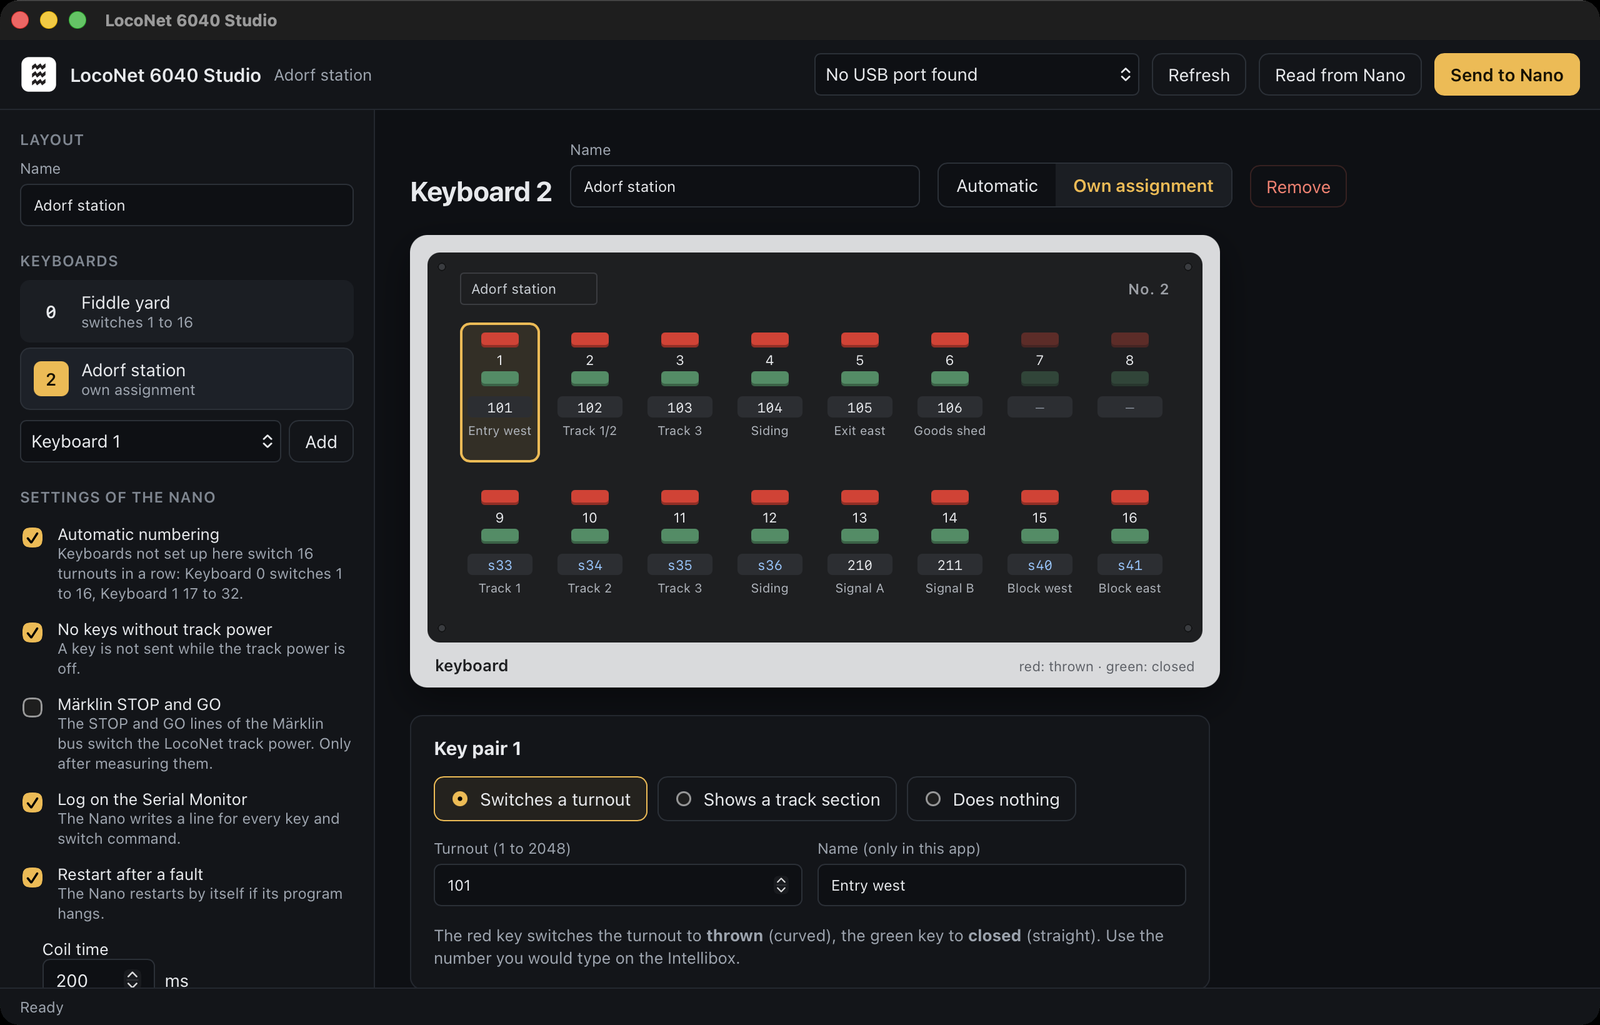
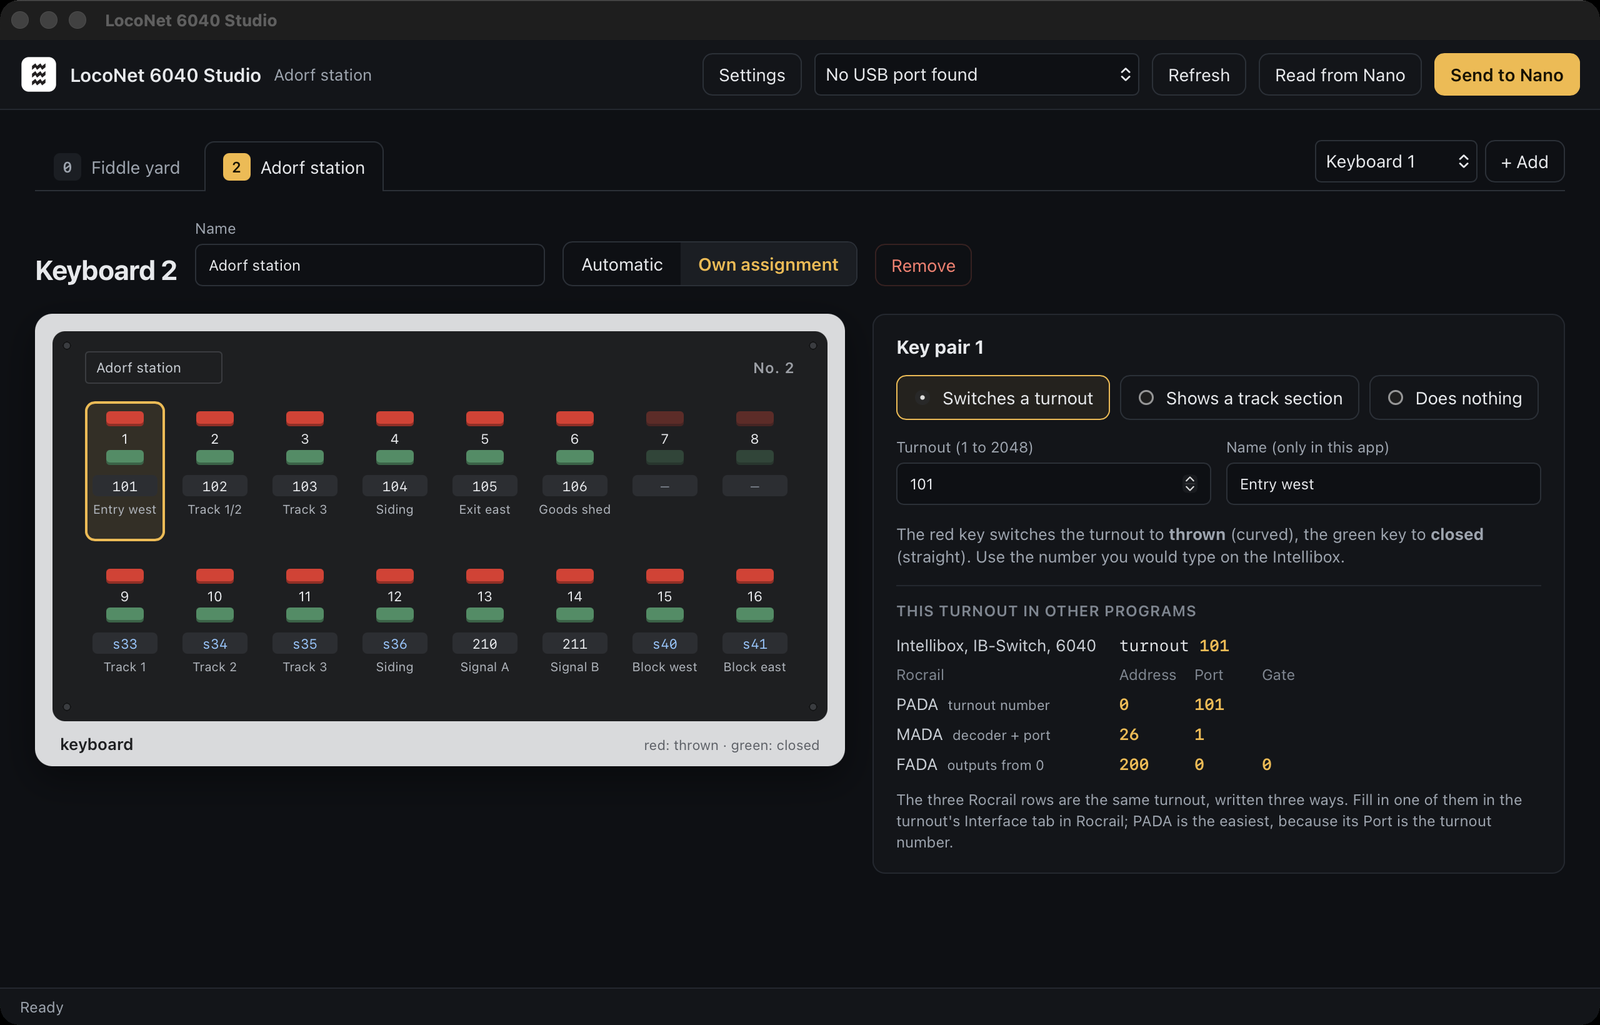
Keyboards as tabs, Rocrail MADA/PADA/FADA per turnout, Settings window
- Keyboards are tabs above the Keyboard picture, with + Add for the next
  free number, instead of a list on the left
- For a turnout, the key pair panel shows it as the Intellibox numbers it
  and as Rocrail's PADA, MADA and FADA, in Rocrail's Address, Port and
  Gate fields. The formulas are Rocrail's own (rocutils addr.c and the
  LocoNet driver), in l6040-core::rocrail, tested for all 2048 turnouts
  in all three forms
- The layout name and the Nano's settings moved to a Settings window, so
  the key pair panel fits next to the Keyboard picture

diff --git a/app/ui/app.js b/app/ui/app.js
@@ -17,6 +17,7 @@ const st = {
   ports: [],
   port: localStorage.getItem('port') || '',
   busy: false,
+  settings: false, // the Settings window is open
   status: { text: 'Ready', kind: '' },
 };
 
@@ -80,15 +81,38 @@ function newKeyboard(number) {
 
 // ---------- rendering ----------
 
+/// The same turnout as the Intellibox and as Rocrail's MADA, PADA and FADA write it, filled
+/// in after each render (the formulas live in l6040-core, rocrail.rs).
+async function fillAddresses() {
+  const el = document.getElementById('addresses');
+  const kb = st.layout && keyboard();
+  if (!el || !kb) return;
+  const key = effectiveKey(kb, st.pair);
+  if (kindOf(key) !== 'turnout') return;
+  const a = await invoke('rocrail_addresses', { turnout: numberOf(key) });
+  if (!document.body.contains(el)) return;
+  el.innerHTML = `
+    <div class="addr-title">This turnout in other programs</div>
+    <table class="addr">
+      <tr><th>Intellibox, IB-Switch, 6040</th><td colspan="3">turnout <b>${a.turnout}</b></td></tr>
+      <tr><th class="h">Rocrail</th><td class="h">Address</td><td class="h">Port</td><td class="h">Gate</td></tr>
+      <tr><th>PADA <span class="muted">turnout number</span></th><td><b>0</b></td><td><b>${a.pada_port}</b></td><td></td></tr>
+      <tr><th>MADA <span class="muted">decoder + port</span></th><td><b>${a.mada_address}</b></td><td><b>${a.mada_port}</b></td><td></td></tr>
+      <tr><th>FADA <span class="muted">outputs from 0</span></th><td><b>${a.fada_address}</b></td><td><b>0</b></td><td><b>0</b></td></tr>
+    </table>
+    <div class="hint">The three Rocrail rows are the same turnout, written three ways. Fill in one of them in the turnout's Interface tab in Rocrail; PADA is the easiest, because its Port is the turnout number.</div>`;
+}
+
 function render() {
   const app = document.getElementById('app');
   app.innerHTML = `
     ${renderTop()}
     <div class="body">
-      <aside class="side">${renderKeyboards()}${renderOptions()}</aside>
       <main class="main">${renderMain()}</main>
     </div>
+    ${st.settings ? renderSettings() : ''}
     <div class="status ${st.status.kind}">${esc(st.status.text)}</div>`;
+  fillAddresses();
 }
 
 function renderTop() {
@@ -103,6 +127,7 @@ function renderTop() {
       <span class="file">${esc(st.layout.name || fileName(st.path))}</span>
       <span class="dirty" style="${st.dirty ? '' : 'display:none'}" title="Not saved"></span>
       <span class="spacer"></span>
+      <button class="btn" data-act="settings" title="The layout's name and the settings of the Nano">Settings</button>
       <select class="select port" data-act="port" title="The USB port of the Nano">${choose}${options}</select>
       <button class="btn" data-act="ports" title="Look for USB ports again">Refresh</button>
       <button class="btn" data-act="read" ${st.busy ? 'disabled' : ''}>Read from Nano</button>
@@ -110,39 +135,43 @@ function renderTop() {
     </header>`;
 }
 
-function renderKeyboards() {
-  const items = [...st.layout.keyboards]
+/// The Settings window: the layout's name and the settings of the Nano, which most
+/// layouts never change.
+function renderSettings() {
+  return `
+    <div class="overlay" data-act="close-settings">
+      <div class="sheet" role="dialog" aria-label="Settings">
+        <section>
+          <h2>Layout</h2>
+          <label class="field">Name<input class="input" data-bind="layout-name" value="${esc(st.layout.name)}" placeholder="For example: Adorf station"></label>
+        </section>
+        ${renderOptions()}
+        <div class="sheet-foot"><button class="btn primary" data-act="close-settings">Done</button></div>
+      </div>
+    </div>`;
+}
+
+/// The Keyboards as tabs above the Keyboard picture, with Add for the numbers still free.
+function renderTabs() {
+  const tabs = [...st.layout.keyboards]
     .sort((a, b) => a.number - b.number)
     .map((kb) => {
-      const sub = kb.automatic ? `switches ${kb.number * 16 + 1} to ${kb.number * 16 + 16}` : 'own assignment';
-      const bus = st.onBus.includes(kb.number) ? '<span class="tag">on the bus</span>' : '';
+      const bus = st.onBus.includes(kb.number) ? '<span class="tab-bus" title="Found on the bus by the Nano"></span>' : '';
       return `
-        <div class="kb-item ${kb.number === st.keyboard ? 'active' : ''}" data-act="pick-kb" data-kb="${kb.number}">
-          <div class="kb-num">${kb.number}</div>
-          <div class="kb-text">
-            <div class="kb-name">${esc(kb.name || `Keyboard ${kb.number}`)}${bus}</div>
-            <div class="kb-sub">${sub}</div>
-          </div>
-        </div>`;
+        <button class="tab ${kb.number === st.keyboard ? 'active' : ''}" data-act="pick-kb" data-kb="${kb.number}" title="Keyboard ${kb.number}">
+          <span class="tab-num">${kb.number}</span>
+          <span class="tab-name">${esc(kb.name || `Keyboard ${kb.number}`)}</span>${bus}
+        </button>`;
     })
     .join('');
   const free = [...Array(16).keys()].filter((n) => !keyboard(n));
   const add = free.length
-    ? `<div class="add-row">
-         <select class="select" id="add-kb">${free.map((n) => `<option value="${n}">Keyboard ${n}</option>`).join('')}</select>
-         <button class="btn" data-act="add-kb">Add</button>
-       </div>`
+    ? `<span class="tab-add">
+         <select class="select" id="add-kb" title="The number set with the switches on the back of the Keyboard">${free.map((n) => `<option value="${n}">Keyboard ${n}</option>`).join('')}</select>
+         <button class="btn" data-act="add-kb">+ Add</button>
+       </span>`
     : '';
-  return `
-    <section>
-      <h2>Layout</h2>
-      <label class="field">Name<input class="input" data-bind="layout-name" value="${esc(st.layout.name)}" placeholder="For example: Adorf station"></label>
-    </section>
-    <section>
-      <h2>Keyboards</h2>
-      <div class="kb-list">${items || '<div class="muted">No Keyboards yet.</div>'}</div>
-      ${add}
-    </section>`;
+  return `<nav class="tabs">${tabs}${add}</nav>`;
 }
 
 function renderOptions() {
@@ -174,7 +203,7 @@ function renderOptions() {
 function renderMain() {
   const kb = keyboard();
   if (!kb) {
-    return `<div class="empty">Add a Keyboard on the left, or choose <b>Read from Nano</b> to take over the setup of your Nano.</div>`;
+    return `${renderTabs()}<div class="empty">Add a Keyboard with <b>+ Add</b> above, or choose <b>Read from Nano</b> to take over the setup of your Nano.</div>`;
   }
   // As on the real Keyboard 6040: two rows of 8 key pairs, 1 to 8 on top, 9 to 16 below;
   // each pair is a red key, its number, and a green key.
@@ -203,6 +232,7 @@ function renderMain() {
     .join('');
   const first = kb.number * 16 + 1;
   return `
+    ${renderTabs()}
     <div class="kb-head">
       <h1>Keyboard ${kb.number}</h1>
       <label class="field">Name<input class="input" data-bind="kb-name" value="${esc(kb.name)}" placeholder="For example: Adorf station"></label>
@@ -213,6 +243,7 @@ function renderMain() {
       <button class="btn danger" data-act="remove-kb">Remove</button>
     </div>
     ${kb.automatic ? `<div class="notice">Automatic: this Keyboard switches turnouts ${first} to ${first + 15}. Choose <b>Own assignment</b> to change what its keys do.</div>` : ''}
+    <div class="work">
     <div class="k6040">
       <div class="face">
         <span class="screw tl"></span><span class="screw tr"></span><span class="screw bl"></span><span class="screw br"></span>
@@ -221,7 +252,8 @@ function renderMain() {
       </div>
       <div class="base"><span>keyboard</span><span class="muted-ink">red: thrown · green: closed</span></div>
     </div>
-    ${renderInspector(kb)}`;
+    ${renderInspector(kb)}
+    </div>`;
 }
 
 function renderInspector(kb) {
@@ -251,6 +283,7 @@ function renderInspector(kb) {
         <label class="field">Name (only in this app)<input class="input" data-bind="key-name" value="${esc(kb.key_names[pair])}" placeholder="For example: Entry track 1"></label>
       </div>
       <div class="explain">${explain}</div>
+      ${kind === 'turnout' ? '<div class="addresses" id="addresses"></div>' : ''}
     </section>`;
 }
 
@@ -260,7 +293,14 @@ document.addEventListener('click', async (ev) => {
   const el = ev.target.closest('[data-act]');
   if (!el || el.tagName === 'SELECT' || el.tagName === 'INPUT') return;
   const act = el.dataset.act;
-  if (act === 'pick-kb') {
+  if (act === 'settings') {
+    st.settings = true;
+    render();
+  } else if (act === 'close-settings') {
+    if (el.classList.contains('overlay') && ev.target !== el) return; // a click inside the window
+    st.settings = false;
+    render();
+  } else if (act === 'pick-kb') {
     st.keyboard = Number(el.dataset.kb);
     st.pair = 0;
     render();
@@ -337,8 +377,10 @@ document.addEventListener('input', (ev) => {
     markDirty();
   } else if (el.dataset.bind === 'kb-name') {
     keyboard().name = el.value;
-    const item = document.querySelector(`.kb-item[data-kb="${st.keyboard}"] .kb-name`);
-    if (item) item.firstChild.textContent = el.value || `Keyboard ${st.keyboard}`;
+    const tab = document.querySelector(`.tab[data-kb="${st.keyboard}"] .tab-name`);
+    if (tab) tab.textContent = el.value || `Keyboard ${st.keyboard}`;
+    const label = document.querySelector('.face .window');
+    if (label) label.textContent = el.value;
     markDirty();
   } else if (el.dataset.bind === 'key-name') {
     keyboard().key_names[st.pair] = el.value;
@@ -514,6 +556,12 @@ async function refreshPorts() {
 listen('menu', (ev) => command(ev.payload));
 listen('close-requested', async () => {
   if (await confirmDiscard()) invoke('close_window');
+});
+document.addEventListener('keydown', (ev) => {
+  if (ev.key === 'Escape' && st.settings) {
+    st.settings = false;
+    render();
+  }
 });
 document.addEventListener('contextmenu', (ev) => {
   if (!ev.target.closest('input')) ev.preventDefault();

diff --git a/app/ui/app.css b/app/ui/app.css
@@ -95,6 +95,18 @@ button { cursor: default; }
 .mode button.on { background: var(--raised); color: var(--accent); font-weight: 600; }
 .notice { padding: 10px 14px; border-radius: 8px; background: var(--panel-2); border: 1px solid var(--line); color: var(--text-2); line-height: 1.45; }
 
+/* Keyboards as tabs above the picture */
+.tabs { display: flex; align-items: flex-end; gap: 4px; border-bottom: 1px solid var(--line-2); flex-wrap: wrap; }
+.tab { display: inline-flex; align-items: center; gap: 8px; height: 40px; padding: 0 14px; border: 1px solid transparent; border-bottom: 0; border-radius: 8px 8px 0 0; background: transparent; color: var(--muted); margin-bottom: -1px; max-width: 220px; }
+.tab:hover { color: var(--text); background: var(--raised); }
+.tab.active { color: var(--text); background: var(--bg); border-color: var(--line-2); }
+.tab-num { width: 22px; height: 22px; flex: none; border-radius: 5px; background: var(--raised); display: grid; place-items: center; font-family: var(--mono); font-size: 12px; font-weight: 600; }
+.tab.active .tab-num { background: var(--accent); color: var(--accent-ink); }
+.tab-name { overflow: hidden; text-overflow: ellipsis; white-space: nowrap; }
+.tab-bus { width: 7px; height: 7px; border-radius: 50%; background: var(--ok); flex: none; }
+.tab-add { display: inline-flex; gap: 6px; margin-left: auto; padding-bottom: 6px; }
+.tab-add .select { width: 130px; }
+
 /* the Keyboard 6040, after Märklin's product photo: a black face plate on a light grey
    body, two rows of 8 key pairs */
 .k6040 { align-self: flex-start; max-width: 100%; overflow-x: auto; background: #D9DADC; border-radius: 14px; padding: 14px 14px 10px; box-shadow: 0 10px 30px rgba(0,0,0,.4); }
@@ -142,3 +154,25 @@ button { cursor: default; }
 
 .toast { position: fixed; bottom: 44px; left: 50%; transform: translateX(-50%) translateY(20px); opacity: 0; transition: .2s; background: var(--raised); border: 1px solid var(--line-2); padding: 10px 16px; border-radius: 8px; pointer-events: none; }
 .toast.show { opacity: 1; transform: translateX(-50%); }
+
+/* the same turnout in other programs */
+.addresses { border-top: 1px solid var(--line); padding-top: 12px; }
+.addr-title { font-size: 12px; font-weight: 600; letter-spacing: .04em; text-transform: uppercase; color: var(--dim); margin-bottom: 8px; }
+.addr { border-collapse: collapse; font-size: 13px; }
+.addr th { text-align: left; font-weight: 400; color: var(--text-2); padding: 4px 18px 4px 0; }
+.addr td { padding: 4px 14px 4px 0; font-family: var(--mono); min-width: 54px; }
+.addr td.h { font-family: var(--sans); color: var(--dim); font-size: 12px; }
+.addr b { color: var(--accent); font-weight: 600; }
+.addresses .hint { margin-top: 8px; font-size: 12px; color: var(--muted); line-height: 1.45; }
+
+/* the Keyboard picture and the key pair panel side by side, below each other when narrow */
+.work { display: flex; flex-wrap: wrap; gap: 22px; align-items: flex-start; }
+.work .inspector { flex: 1 1 420px; max-width: 600px; }
+
+/* the Settings window */
+.overlay { position: fixed; inset: 0; background: rgba(0,0,0,.55); display: grid; place-items: center; z-index: 10; }
+.sheet { width: 460px; max-height: calc(100vh - 80px); overflow-y: auto; background: var(--panel); border: 1px solid var(--line-2); border-radius: 12px; padding: 20px 22px; display: flex; flex-direction: column; gap: 18px; box-shadow: 0 20px 60px rgba(0,0,0,.5); }
+.sheet h2 { margin: 0 0 8px; font-size: 12px; font-weight: 600; letter-spacing: .04em; text-transform: uppercase; color: var(--dim); }
+.sheet-foot { display: flex; justify-content: flex-end; }
+.addr th.h { color: var(--dim); font-size: 12px; }
+.addr th .muted { font-size: 11px; margin-left: 4px; }

diff --git a/crates/l6040-core/src/rocrail.rs b/crates/l6040-core/src/rocrail.rs
@@ -1,0 +1,71 @@
+//! A turnout number as Rocrail writes it. Rocrail's turnout dialog has the fields Address,
+//! Port and Gate, and accepts three ways of filling them in (formulas from Rocrail's
+//! rocutils/impl/addr.c and rocdigs/impl/loconet.c):
+//!
+//! - MADA, decoder and port: Address = decoder 1.., Port = 1 to 4
+//! - PADA, the turnout number: Address = 0, Port = the turnout number
+//! - FADA, every output counted from 0: Address = 2 × (turnout − 1) + gate, Port = 0
+//!
+//! The turnout number is the one the Keyboard 6040, the Intellibox, the IB-Switch and
+//! LocoNet use (1 to 2048), so it equals PADA.
+
+use serde::Serialize;
+
+#[derive(Debug, Clone, Copy, PartialEq, Eq, Serialize)]
+pub struct RocrailAddresses {
+    pub turnout: u16,
+    /// MADA: the decoder (Address field) and its port 1 to 4 (Port field).
+    pub mada_address: u16,
+    pub mada_port: u16,
+    /// PADA: Address 0, the turnout number in the Port field.
+    pub pada_port: u16,
+    /// FADA: Port 0, this number in the Address field (gate 0; gate 1 is one more).
+    pub fada_address: u16,
+}
+
+/// The Rocrail fields for a turnout number 1 to 2048.
+pub fn addresses(turnout: u16) -> RocrailAddresses {
+    let index = turnout.saturating_sub(1);
+    RocrailAddresses {
+        turnout,
+        mada_address: index / 4 + 1,
+        mada_port: index % 4 + 1,
+        pada_port: turnout,
+        fada_address: index * 2,
+    }
+}
+
+#[cfg(test)]
+mod tests {
+    use super::*;
+
+    /// Rocrail's LocoNet driver sends OPC_SW_REQ for (address − 1) × 4 + (port − 1), which
+    /// is the turnout number minus 1, from any of the three forms.
+    fn loconet_from_mada(address: u16, port: u16) -> u16 {
+        (address - 1) * 4 + (port - 1)
+    }
+
+    fn mada_from_fada(fada: u16) -> (u16, u16) {
+        (fada / 8 + 1, (fada % 8) / 2 + 1)
+    }
+
+    #[test]
+    fn turnout_5() {
+        let a = addresses(5);
+        assert_eq!((a.mada_address, a.mada_port), (2, 1));
+        assert_eq!(a.pada_port, 5);
+        assert_eq!(a.fada_address, 8);
+    }
+
+    #[test]
+    fn every_form_reaches_the_same_loconet_turnout() {
+        for turnout in 1..=2048 {
+            let a = addresses(turnout);
+            assert_eq!(loconet_from_mada(a.mada_address, a.mada_port) + 1, turnout);
+            let (address, port) = mada_from_fada(a.fada_address);
+            assert_eq!(loconet_from_mada(address, port) + 1, turnout);
+            let (address, port) = mada_from_fada(a.fada_address + 1); // gate 1
+            assert_eq!(loconet_from_mada(address, port) + 1, turnout);
+        }
+    }
+}

diff --git a/app/src-tauri/src/main.rs b/app/src-tauri/src/main.rs
@@ -95,6 +95,12 @@ fn problems(layout: Layout) -> Vec<String> {
     layout.problems()
 }
 
+/// A turnout number as Rocrail's MADA, PADA and FADA write it.
+#[tauri::command]
+fn rocrail_addresses(turnout: u16) -> l6040_core::rocrail::RocrailAddresses {
+    l6040_core::rocrail::addresses(turnout)
+}
+
 #[tauri::command]
 fn list_ports() -> Vec<nano::PortInfo> {
     nano::ports()
@@ -317,6 +323,7 @@ fn main() {
             export_backup,
             export_keymap,
             problems,
+            rocrail_addresses,
             list_ports,
             read_from_nano,
             send_to_nano,

diff --git a/crates/l6040-core/src/lib.rs b/crates/l6040-core/src/lib.rs
@@ -1,10 +1,11 @@
 //! What LocoNet 6040 Studio knows about the Marklin-6040-LocoNet firmware: the layout it
 //! edits ([`model`]), the firmware's `backup` text, which is also the list of commands that
 //! sends a layout to the Nano ([`backup`]), and the `KeyMap.h` file for the Arduino IDE
-//! ([`keymap`]).
+//! ([`keymap`]), and how Rocrail writes a turnout number ([`rocrail`]).
 
 pub mod backup;
 pub mod keymap;
 pub mod model;
+pub mod rocrail;
 
 pub use model::{Key, Keyboard, Layout, Options};

diff --git a/README.md b/README.md
@@ -15,11 +15,13 @@ LocoNet 6040 Studio is the setup program for [Marklin-6040-LocoNet](https://gith
 ## What it does
 
 - **Your Keyboards as you know them:** each Keyboard 6040 with its 16 key pairs in two rows of 8, red above green, numbered as on the Keyboard.
+- **One tab per Keyboard**, above the picture, with **+ Add** for the next one.
 - **Click a key pair and choose:** it switches a turnout (1 to 2048), it shows a track section (red occupied, green free), or it does nothing. Give it a name, such as "Entry track 1", so you still know what it was for next year.
 - **Read from Nano:** takes over the setup that is on the Nano now.
 - **Send to Nano:** puts your setup on the Nano and then reads it back to check that the Nano really has it.
 - **Save and open** your setup as a file on the computer, with all its names. That is also your backup: if a Nano is replaced, open the file and send it to the new one.
-- **Settings of the Nano:** automatic numbering, coil time, no keys without track power, and the others, with a plain explanation for each.
+- **Rocrail's MADA, PADA and FADA explained:** for every turnout the Studio shows the same turnout as the Intellibox numbers it and as Rocrail's three ways of writing it, exactly as you fill them in Rocrail's Address, Port and Gate fields. PADA is the easiest: Address 0, and the turnout number as Port.
+- **Settings** (top right): the layout's name and the settings of the Nano (automatic numbering, coil time, no keys without track power, and the others), each with a plain explanation.
 - **Export backup:** the setup as the list of commands the Nano understands, the same text as its `backup` command, to keep or to type in on the Serial Monitor.
 - **Export KeyMap.h:** the setup as a file for the Arduino IDE, for those who load the program themselves.
 
@@ -28,7 +30,7 @@ LocoNet 6040 Studio is the setup program for [Marklin-6040-LocoNet](https://gith
 1. Connect the Nano with its USB cable.
 2. Start LocoNet 6040 Studio. At the top right, choose the Nano's USB port (press **Refresh** if it is not in the list).
 3. Press **Read from Nano** to start from what the Nano has now, or start with an empty layout.
-4. On the left, choose a Keyboard or add one. Its number is the one set with the four switches on the back of the Keyboard (0 to 15).
+4. Choose a Keyboard with the tabs above the picture, or add one with **+ Add**. Its number is the one set with the four switches on the back of the Keyboard (0 to 15).
 5. Choose **Own assignment**, click a key pair and choose what it does. The key pairs are numbered as on the Keyboard: 1 to 8 in the top row, 9 to 16 in the bottom row.
 6. Press **Send to Nano**. The Studio tells you when the Nano has the setup.
 7. **Save** the layout (File → Save) to keep it.
